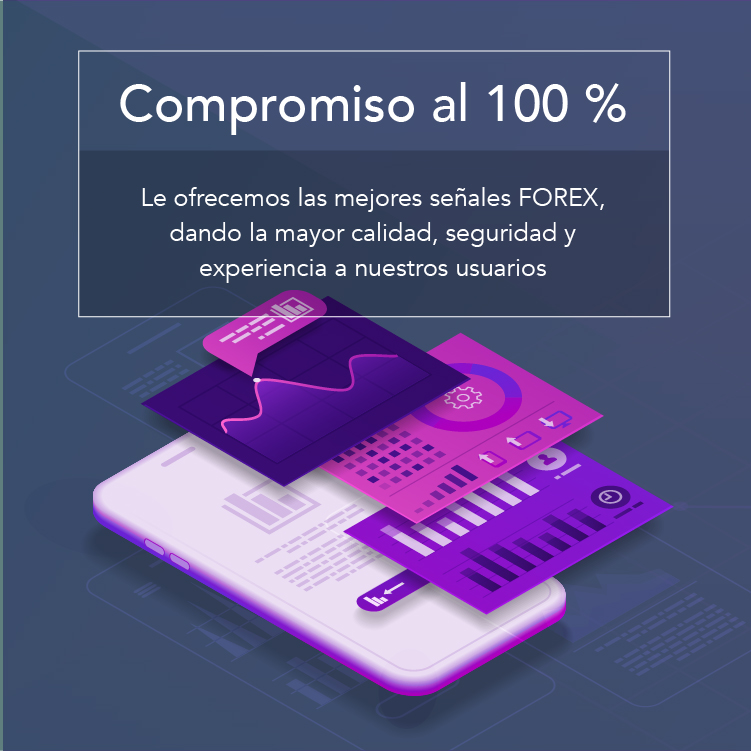
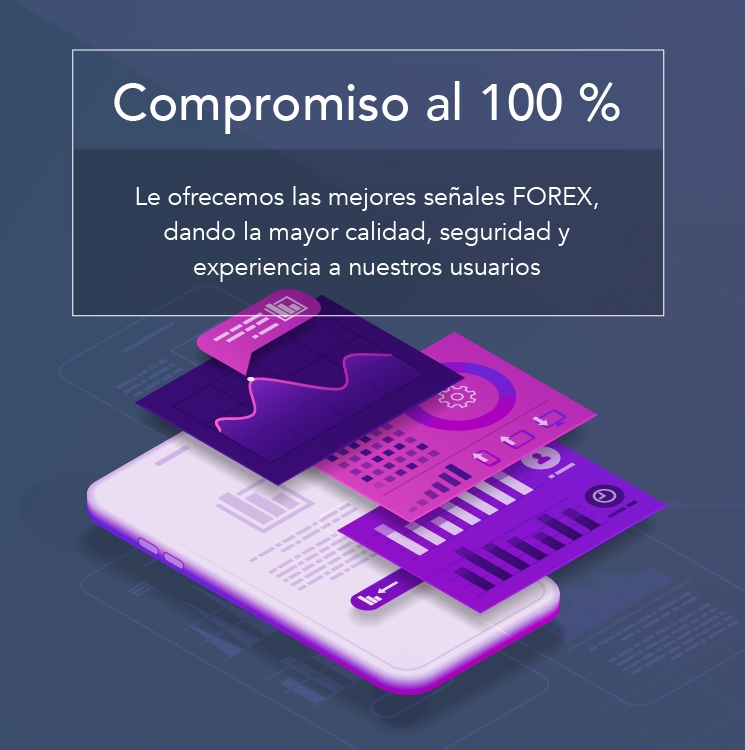
Cambio de lugar de secciones, achique imagenes de servicios, agrande imagenes de compromiso

diff --git a/index.html b/index.html
@@ -58,8 +58,10 @@
     <div class="container">
       <div class="row ">
         <div class="col">
-          <h1 class="pt-5"><strong>Inverti desde cualquier parte del mundo</strong></h1>
-          <h2 class="pt-5"><strong>Genera con nosotros las mejores rentabilidades</strong></h2>
+          
+          <h1 class="pt-5"><strong>Inverti desde cualquier parte del mundo,</strong></h1>
+          <h2 class="pt-5"><strong>Genera con nosotros las mejores rentabilidades.</strong></h2>
+          
           <a href="#precios">
             <button class="btn-primary btn-lg mt-2">¡Comenzá ahora!</button>
           </a>
@@ -114,67 +116,6 @@
   </div>
   <!-- TradingView Widget END -->
 
-  <!-- Banner 2 imagenes -->
-  <div class="banner">
-    <div class="container">
-      <div class="row ustify-content-center">
-        <div class="col">
-          <img src="/img/banner1.2.jpg" height="300rem" alt="">
-        </div>
-        <div class="col">
-          <img src="/img/banner2.jpg" height="300rem" alt="">
-        </div>
-      </div>
-    </div>
-  </div>
-  <!-- Fin banner 2 imagenes -->
-
-  <!-- INCIO SERVICIOS-->
-  <section id="servicios" class="pt-1">
-    <div class="container">
-      <h2 class="mt-4">¿Cómo trabajamos?</h2>
-      <div class="row pt-4">
-
-        <div class="col-lg-3 col-md-6">
-
-          <img src="img/servicios1.jpg" class="img-fluid" alt="...">
-
-        </div>
-
-        <div class="col-lg-3 col-md-6">
-          <img src="img/servicios2.2.jpg" class="img-fluid" alt="...">
-        </div>
-
-        <div class="col-lg-3 col-md-6">
-          <img src="img/servicios3.jpg" class="img-fluid" alt="...">
-        </div>
-
-        <div class="col-lg-3 col-md-6">
-          <img src="img/servicios4.jpg" class="img-fluid" alt="...">
-        </div>
-
-      </div>
-    </div>
-  </section>
-
-  <!-- FIN SERVICIOS-->
-
-  <!-- INICIO NOSOTROS-->
-  <section id="about">
-    <div class="container">
-      <div class="row">
-        <div class="col">
-          <h1 class="pb-5">¿Qué es forex?</h1>
-          <div class="embed-responsive embed-responsive-16by9">
-            <iframe class="embed-responsive-item" src="https://www.youtube.com/embed/muYcwJ625No"
-              allow="accelerometer; autoplay; encrypted-media; gyroscope; picture-in-picture" allowfullscreen></iframe>
-          </div>
-        </div>
-      </div>
-    </div>
-  </section>
-  <!-- FIN NOSOTROS-->
-
   <!-- INICIO OPERAR PASOS-->
   <section id="operar" class="">
     <div class="container">
@@ -192,27 +133,23 @@
             </div>
           </div>
           <div class="card">
-            <!--  
-                <img src="img/megaphone.jpg" class="card-img-top" alt="Card 2">
-              -->
+
             <div class="card-body">
               <h4 class="card-title">
                 <img src="img/images.jpg" width="50px" alt="">
               </h4>
               <p class="card-text">Cargue los datos publicados en el programa de gestión</p>
-              <img src="/img/celu2.jpeg" class="img-fluid" alt="">
+              <img src="/img/celu3.jpeg" class="img-fluid" alt="">
             </div>
           </div>
           <div class="card">
-            <!--
-                <img src="img/ok2.jpg" class="card-img-top" alt="Card 3">
-                -->
+
             <div class="card-body">
               <h4 class="card-title">
                 <img src="img/paper.svg" width="50px" alt="">
               </h4>
-              <p class="card-text">Calcule su lotaje y haga click en sell/buy según corresponda</p>
-              <img src="/img/celu3.jpeg" class="img-fluid" alt="">
+              <p class="card-text">Deja correr las operaciones y recoje tus ganancias.</p>
+              <img src="/img/celu2.jpeg" class="img-fluid" alt="">
             </div>
           </div>
         </div>
@@ -221,6 +158,64 @@
   </section>
 
   <!-- FIN OPERAR PASOS-->
+
+  <!-- INCIO SERVICIOS-->
+  <section id="servicios" class="pt-2 pb-5">
+    <div class="container">
+      <h2 class="mt-4">¿Cómo trabajamos?</h2>
+      <div class="row pt-4">
+
+        <div class="col-lg-3 col-md-6 ">
+          <img src="img/servicios1.jpg" class="img-fluid" alt="...">
+        </div>
+
+        <div class="col-lg-3 col-md-6">
+          <img src="img/servicios2.jpg" class="img-fluid" alt="...">
+        </div>
+
+        <div class="col-lg-3 col-md-6">
+          <img src="img/servicios3.jpg" class="img-fluid" alt="...">
+        </div>
+
+        <div class="col-lg-3 col-md-6">
+          <img src="img/servicios4.jpg" class="img-fluid" alt="...">
+        </div>
+
+      </div>
+    </div>
+  </section>
+
+  <!-- FIN SERVICIOS-->
+
+    <!-- Banner 2 imagenes -->
+    <div class="banner pt-2 pb-2">
+      <div class="container">
+        <div class="row ustify-content-center">
+          <div class="col-lg-6 col-md-6">
+            <img src="/img/banner1.jpg" class="img-fluid" alt="">
+          </div>
+          <div class="col-lg-6 col-md-6">
+            <img src="/img/banner2.jpg" class="img-fluid" alt="">
+          </div>
+        </div>
+      </div>
+    </div>
+    <!-- Fin banner 2 imagenes -->
+
+  <!-- INICIO NOSOTROS-->
+  <section id="about">
+    <div class="container">
+      <div class="row">
+        <div class="col">
+          <div class="embed-responsive embed-responsive-16by9">
+            <iframe class="embed-responsive-item" src="https://www.youtube.com/embed/muYcwJ625No"
+              allow="accelerometer; autoplay; encrypted-media; gyroscope; picture-in-picture" allowfullscreen></iframe>
+          </div>
+        </div>
+      </div>
+    </div>
+  </section>
+  <!-- FIN NOSOTROS-->
 
   <!-- INICIO PRECIOS-->
   <section id="precios" class="pb-5">
@@ -450,7 +445,7 @@
             <div class="form-group">
               <textarea name="mensaje" id="mensaje" placeholder="Mensaje" class="form-control"></textarea>
             </div>
-            <button class="btn btn-danger btn-lg" type="submit">Enviar</button>
+            <button class="btn btn-primary btn-lg" type="submit">Enviar</button>
           </form>
         </div>
       </div>
@@ -498,10 +493,7 @@
   <section id="footer2" class="p-2">
     <div class="container">
       <div class="row justify-content-center">
-        <div class="col-6">
-          <p>Copyright &copy; <strong>FXexperience</strong>. Todos los derechos reservados.</p>
-        </div>
-        <div class="col-6">
+        <div class="col">
           <p><strong>Advertencias de riesgo</strong>
           </p>
           El comercio de Forex y CFD implica un riesgo significativo

diff --git a/css/custom.css b/css/custom.css
@@ -1,11 +1,18 @@
 header {
     color: white;
     text-align: center;
-    background-image: url(../img/banner.jpg);
+    background-image: url(../img/banner23.jpg);
     background-size: 100% 100%;
     background-position: center center;
     height: 25em;
+    text-shadow: black;
+    text-emphasis: black;
 }
+
+header h1 {
+    font-size: 2.9em;
+}
+
 
 body {
     font-family: 'Titillium Web', sans-serif;
@@ -94,7 +101,7 @@ body {
     height: 36px;
     color: #fff;
     font-size: 18px;
-    background: #d90429;
+    background: #007bff;
     border-radius: 50%;
     padding-top: 8px;
     margin: 0 2px;
@@ -115,7 +122,7 @@ body {
 }
 
 .footer-info-single .icon-box {
-    color: #d90429;
+    color: #007bff;
     font-size: 22px;
     position: absolute;
     top: 2px;
